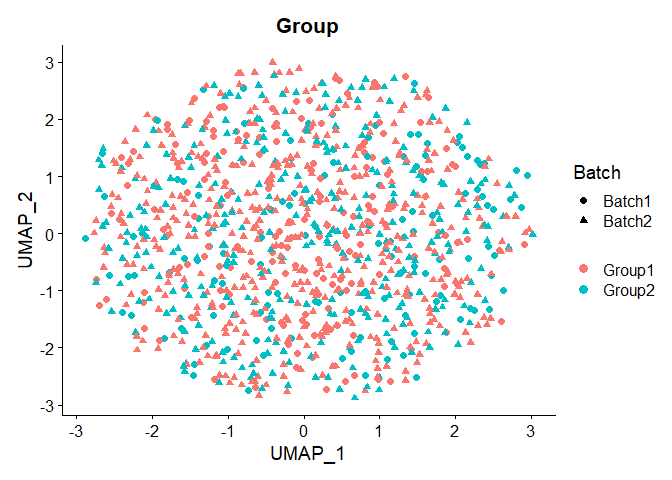
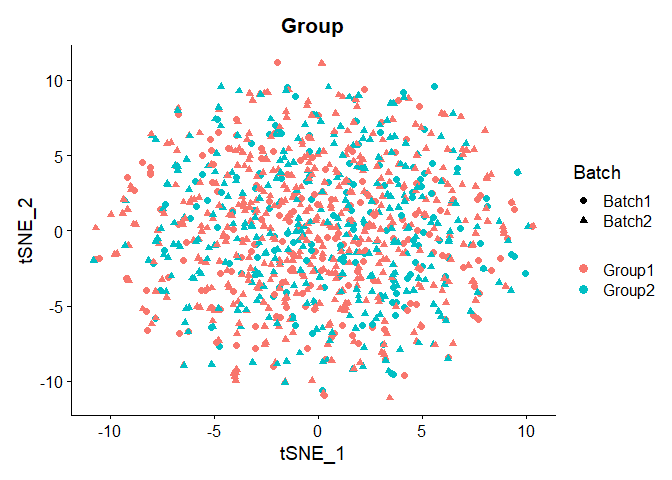
incomplete association simulation

diff --git a/doc/Incomplete-association-simulation-with-Splatter.md b/doc/Incomplete-association-simulation-with-Splatter.md
@@ -252,7 +252,7 @@ seu <- SCTransform(seu)
 
     ## Calculating gene attributes
 
-    ## Wall clock passed: Time difference of 10.29746 secs
+    ## Wall clock passed: Time difference of 10.12685 secs
 
     ## Determine variable features
 
@@ -266,36 +266,9 @@ seu <- SCTransform(seu)
 # PCA
 seu <- RunPCA(seu, npcs = 30, verbose = FALSE)
 # TSNE
-seu <- RunUMAP(seu, dims = 1:30, seed.use = 7968)
-```
+seu <- RunTSNE(seu, dims = 1:30, seed.use = 7968)
 
-    ## Warning: The default method for RunUMAP has changed from calling Python UMAP via reticulate to the R-native UWOT using the cosine metric
-    ## To use Python UMAP via reticulate, set umap.method to 'umap-learn' and metric to 'correlation'
-    ## This message will be shown once per session
-
-    ## 16:46:34 UMAP embedding parameters a = 0.9922 b = 1.112
-
-    ## 16:46:34 Read 1050 rows and found 30 numeric columns
-
-    ## 16:46:34 Using Annoy for neighbor search, n_neighbors = 30
-
-    ## 16:46:34 Building Annoy index with metric = cosine, n_trees = 50
-
-    ## 0%   10   20   30   40   50   60   70   80   90   100%
-
-    ## [----|----|----|----|----|----|----|----|----|----|
-
-    ## **************************************************|
-    ## 16:46:34 Writing NN index file to temp file C:\Users\Hai\AppData\Local\Temp\RtmpqAKBcX\file245424eb73b0
-    ## 16:46:34 Searching Annoy index using 1 thread, search_k = 3000
-    ## 16:46:35 Annoy recall = 100%
-    ## 16:46:35 Commencing smooth kNN distance calibration using 1 thread
-    ## 16:46:36 Initializing from normalized Laplacian + noise
-    ## 16:46:36 Commencing optimization for 500 epochs, with 32940 positive edges
-    ## 16:46:38 Optimization finished
-
-``` r
-DimPlot(seu, reduction = "umap",
+DimPlot(seu, reduction = "tsne",
         group.by = "Group", shape.by="Batch", pt.size = 2,label = F, repel = T)
 ```
 
@@ -319,24 +292,22 @@ tmp <- batch1[separated_DEG_1, tumor]
 for (g in rownames(tmp)){
   for (c in colnames(tmp)){
     prob = rbeta(1, a, b)
-    tmp[g, c] = rbinom(1, tmp[g, c], prob=prob)
+    tmp[g, c] = rbinom(1, tmp[g, c], prob=prob)%/%2
   }
 }
 tmp <- round(tmp)
 tmp -> batch1[separated_DEG_1, tumor]
 
 ############################# batch 2
-separated_DEG_2 = sample(non_DEG, N/2, replace=FALSE)
-some_1 <- sample(separated_DEG_1, N/2, replace=FALSE)
-separated_DEG_2 = c(separated_DEG_2, some_1)
-  
+non_DEG <- setdiff(non_DEG, separated_DEG_1)
+separated_DEG_2 = sample(non_DEG, N, replace=FALSE)
 tumor = which(cellinfo$Group[which(cellinfo$Batch=='Batch2')]=='Group2')
 
 tmp <- batch2[separated_DEG_2, tumor]
 for (g in rownames(tmp)){
   for (c in colnames(tmp)){
     prob = rbeta(1, a, b)
-    tmp[g, c] = rbinom(1, tmp[g, c], prob=prob)
+    tmp[g, c] = rbinom(1, tmp[g, c], prob=prob)%/%3
   }
 }
 tmp <- round(tmp)
@@ -364,7 +335,7 @@ seu <- SCTransform(seu)
 
     ##   |                                                                              |                                                                      |   0%  |                                                                              |==================                                                    |  25%  |                                                                              |===================================                                   |  50%  |                                                                              |====================================================                  |  75%  |                                                                              |======================================================================| 100%
 
-    ## Found 73 outliers - those will be ignored in fitting/regularization step
+    ## Found 71 outliers - those will be ignored in fitting/regularization step
 
     ## Second step: Get residuals using fitted parameters for 2402 genes
 
@@ -376,7 +347,7 @@ seu <- SCTransform(seu)
 
     ## Calculating gene attributes
 
-    ## Wall clock passed: Time difference of 9.586339 secs
+    ## Wall clock passed: Time difference of 9.720946 secs
 
     ## Determine variable features
 
@@ -390,32 +361,9 @@ seu <- SCTransform(seu)
 # PCA
 seu <- RunPCA(seu, npcs = 30, verbose = FALSE)
 # UMAP
-seu <- RunUMAP(seu, dims = 1:30, seed.use = 7968)
-```
+seu <- RunTSNE(seu, dims = 1:30, seed.use = 7968)
 
-    ## 16:47:15 UMAP embedding parameters a = 0.9922 b = 1.112
-
-    ## 16:47:15 Read 1050 rows and found 30 numeric columns
-
-    ## 16:47:15 Using Annoy for neighbor search, n_neighbors = 30
-
-    ## 16:47:15 Building Annoy index with metric = cosine, n_trees = 50
-
-    ## 0%   10   20   30   40   50   60   70   80   90   100%
-
-    ## [----|----|----|----|----|----|----|----|----|----|
-
-    ## **************************************************|
-    ## 16:47:15 Writing NN index file to temp file C:\Users\Hai\AppData\Local\Temp\RtmpqAKBcX\file245424397ecb
-    ## 16:47:15 Searching Annoy index using 1 thread, search_k = 3000
-    ## 16:47:15 Annoy recall = 100%
-    ## 16:47:15 Commencing smooth kNN distance calibration using 1 thread
-    ## 16:47:16 Initializing from normalized Laplacian + noise
-    ## 16:47:16 Commencing optimization for 500 epochs, with 32970 positive edges
-    ## 16:47:19 Optimization finished
-
-``` r
-DimPlot(seu, reduction = "umap",
+DimPlot(seu, reduction = "tsne",
         group.by = "Group", shape.by="Batch", pt.size = 2,label = F, repel = TRUE)
 ```
 
